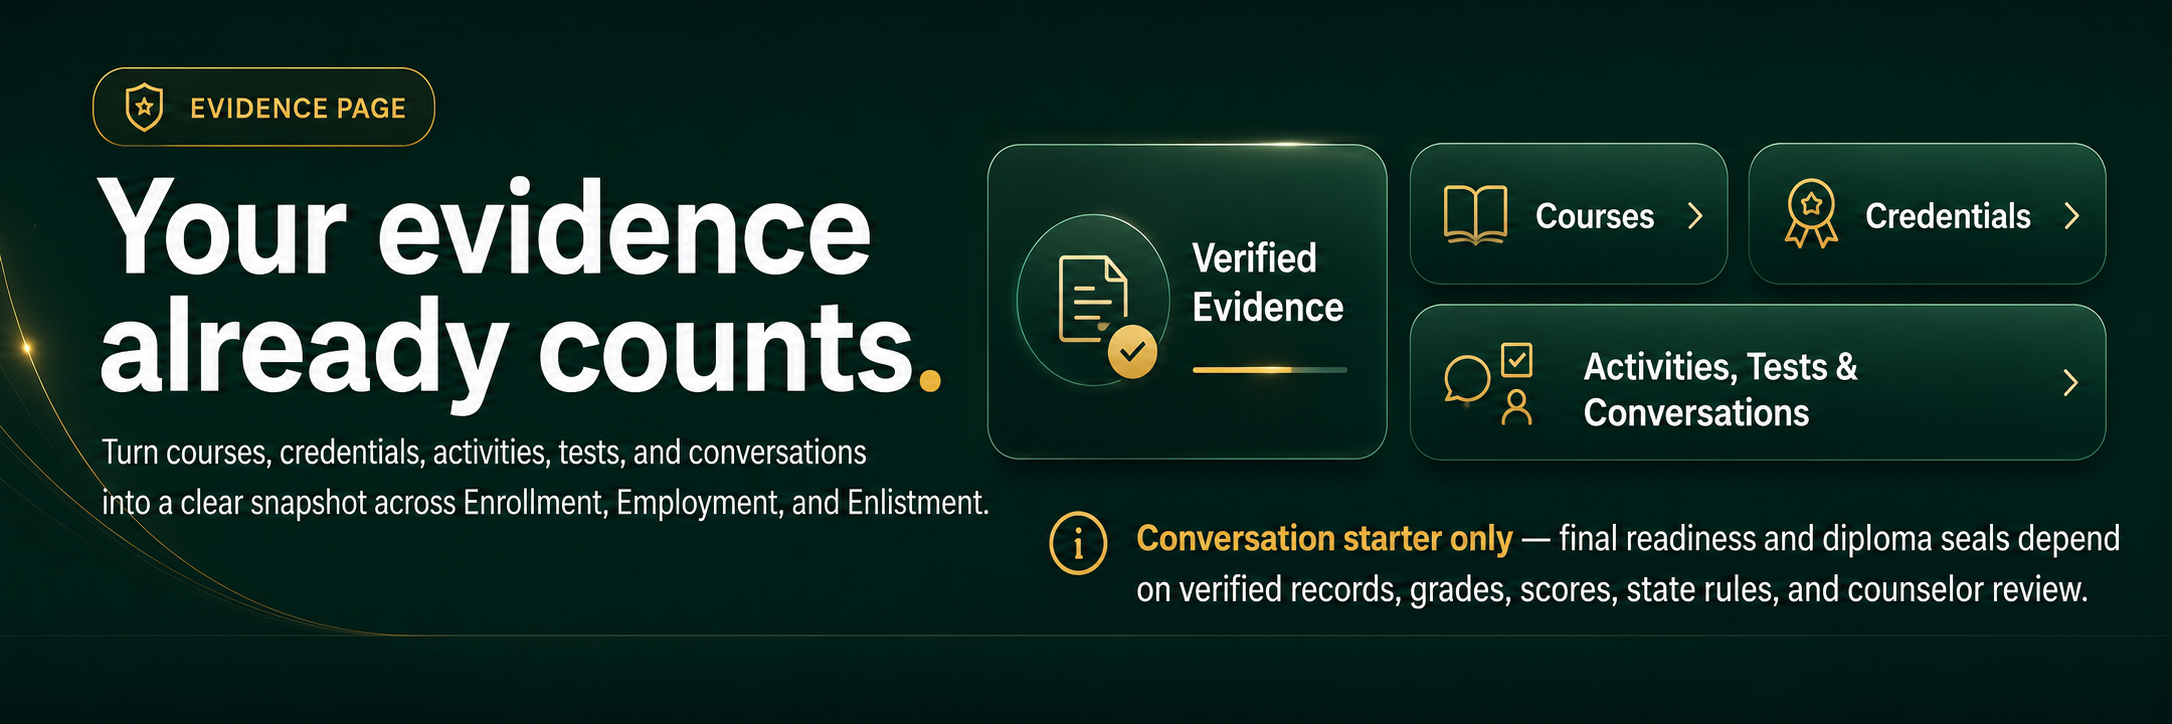
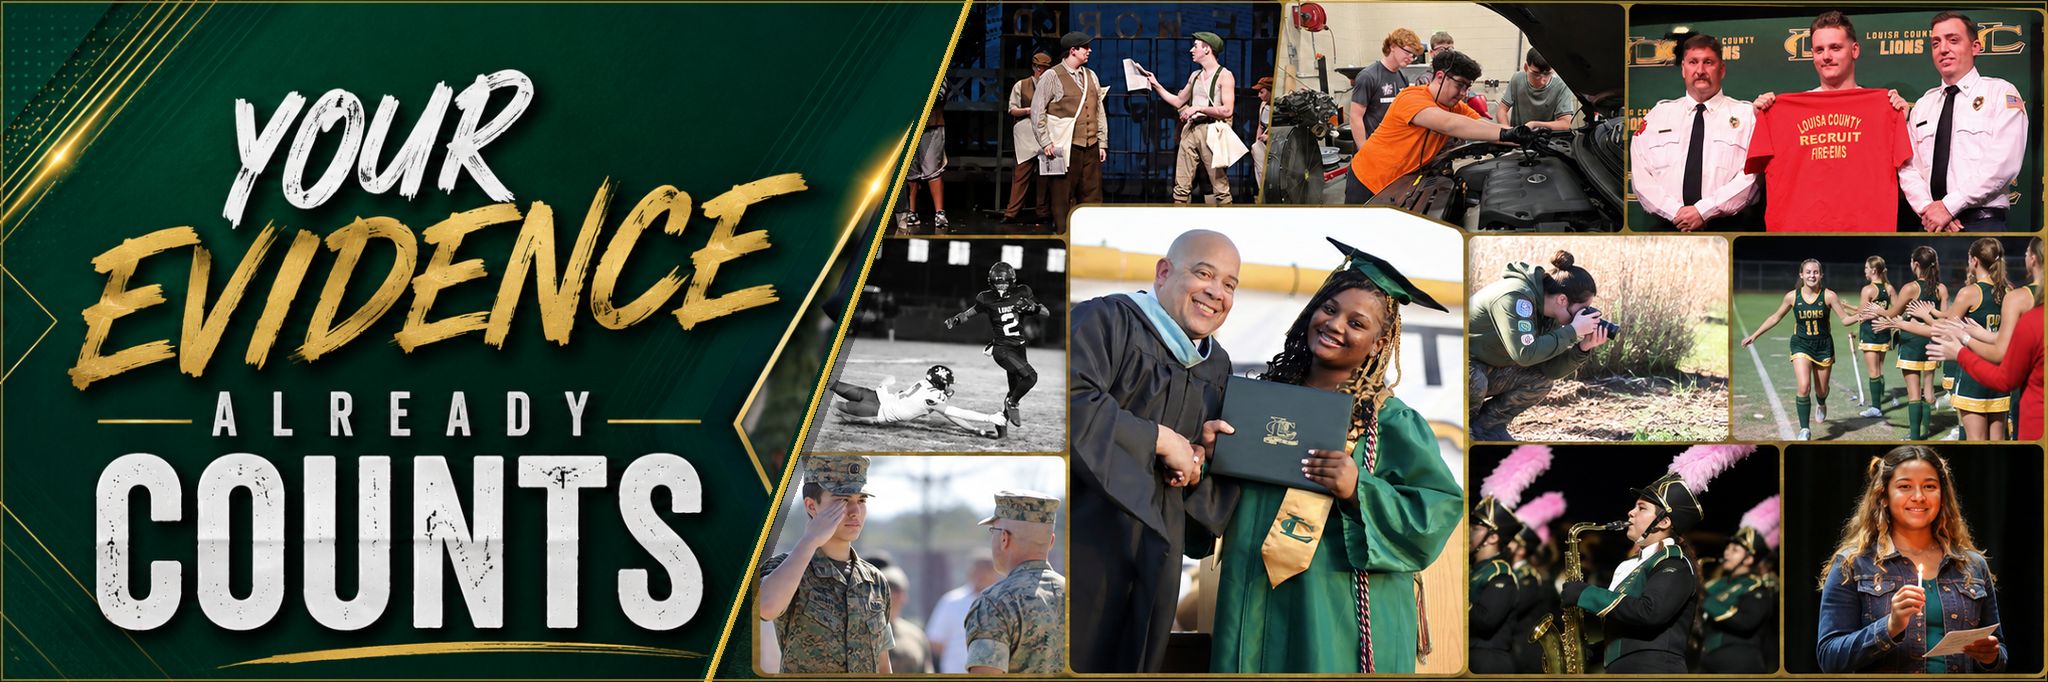
photo updates

diff --git a/index.html b/index.html
@@ -4610,9 +4610,9 @@ input,select,textarea{
           <div class="schoolai-embed-top">
             <div>
               <h3>Live 3E AI Coach</h3>
-              <p>This AI Coach is provided for student pathway planning. Do not enter student IDs, passwords, home addresses, medical details, or other sensitive information. Review next steps with a trusted adult.</p>
+              <p>This AI Coach is provided for student pathway planning. Google and other account sign-ins cannot complete inside the embedded window; use the sign-in button to open SchoolAI directly. Do not enter sensitive information, and review next steps with a trusted adult.</p>
             </div>
-            <a class="btn" href="https://student.schoolai.com/join?code=5R2H-R523" target="_blank" rel="noopener noreferrer">Open SchoolAI in a new tab</a>
+            <a class="btn primary" href="https://student.schoolai.com/join?code=5R2H-R523" target="_blank" rel="noopener noreferrer">Sign in to SchoolAI in a new tab</a>
           </div>
           <div class="schoolai-embed-wrap shared-ai-coach-slot" data-shared-ai-slot data-shared-ai-title="Live 3E AI Coach">
             <div class="shared-ai-slot-message">Shared AI Coach workspace<span>Your conversation stays active as you move between LionsPath pages.</span></div>
@@ -4743,7 +4743,7 @@ Please create:
     <!-- EVIDENCE -->
     <section id="page-evidence" class="page">
       <div class="evidence-hero-image">
-        <img src="assets/evidence-page-header.png" alt="Evidence page. Your evidence already counts. Turn courses, credentials, activities, tests, and conversations into a clear snapshot across Enrollment, Employment, and Enlistment. Conversation starter only." loading="lazy">
+        <img src="assets/evidence-page-header.png?v=4" alt="Your evidence already counts, illustrated with Louisa County students demonstrating achievement through the arts, automotive work, fire service, athletics, military service, graduation, music, and leadership." loading="lazy">
       </div>
 
       <div class="readiness-grid">
@@ -4875,9 +4875,9 @@ Please create:
           <div class="schoolai-embed-top">
             <div>
               <h3>AI Plan Review</h3>
-              <p>This AI Coach is provided for student pathway planning. Paste only the information needed for feedback, leave out sensitive information, and review next steps with a trusted adult.</p>
+              <p>This AI Coach is provided for student pathway planning. Google and other account sign-ins cannot complete inside the embedded window; use the sign-in button to open SchoolAI directly. Paste only the information needed for feedback and review next steps with a trusted adult.</p>
             </div>
-            <a class="btn" href="https://student.schoolai.com/join?code=5R2H-R523" target="_blank" rel="noopener noreferrer">Open SchoolAI in a new tab</a>
+            <a class="btn primary" href="https://student.schoolai.com/join?code=5R2H-R523" target="_blank" rel="noopener noreferrer">Sign in to SchoolAI in a new tab</a>
           </div>
           <div class="schoolai-embed-wrap shared-ai-coach-slot" data-shared-ai-slot data-shared-ai-title="AI Plan Review">
             <div class="shared-ai-slot-message">Shared AI Coach workspace<span>Paste your plan summary here without restarting the chat.</span></div>

diff --git a/assets/lionpath-app.js b/assets/lionpath-app.js
@@ -188,9 +188,9 @@ function schoolAiEmbedBlock(title='Live AI Coach') {
     <div class="schoolai-embed-top">
       <div>
         <h3>${escHtml(title)}</h3>
-        <p>This AI Coach is provided for student pathway planning. Do not enter student IDs, passwords, home addresses, medical details, or other sensitive information. Review next steps with a trusted adult.</p>
+        <p>This AI Coach is provided for student pathway planning. Google and other account sign-ins cannot complete inside the embedded window; use the sign-in button to open SchoolAI directly. Do not enter sensitive information, and review next steps with a trusted adult.</p>
       </div>
-      <a class="btn" href="${AI_COACH_SPACE_URL}" target="_blank" rel="noopener noreferrer">Open SchoolAI in a new tab</a>
+      <a class="btn primary" href="${AI_COACH_SPACE_URL}" target="_blank" rel="noopener noreferrer">Sign in to SchoolAI in a new tab</a>
     </div>
     <div class="schoolai-embed-wrap shared-ai-coach-slot" data-shared-ai-slot data-shared-ai-title="${escAttr(title)}">
       <div class="shared-ai-slot-message">Shared AI Coach workspace<span>Your conversation stays active as you move between LionsPath pages.</span></div>

diff --git a/SECURITY-DEPLOYMENT.md b/SECURITY-DEPLOYMENT.md
@@ -120,4 +120,4 @@ continue to provide operational audit records and are rotated by
 
 ## Embedding check
 
-The supplied policy prevents other websites from framing LionPath by using `X-Frame-Options: SAMEORIGIN` and CSP `frame-ancestors 'self'`. This does not block LionPath's child Google Drive, SchoolAI, or Knowt frames. SchoolAI authentication may navigate its embedded frame from `student.schoolai.com` to `rosterstream.schoolai.com`, so both exact origins are included in `frame-src` and the SchoolAI frame delegates Google's `identity-credentials-get` permission. If Google or SchoolAI still refuses authentication in an embedded context, use the direct SchoolAI new-tab link instead. If the entire LionPath site must be embedded in a district or Wix page, IT must replace `frame-ancestors 'self'` with an allowlist containing the exact trusted parent origin and remove `X-Frame-Options`, then retest clickjacking protection and all embedded services.
+The supplied policy prevents other websites from framing LionPath by using `X-Frame-Options: SAMEORIGIN` and CSP `frame-ancestors 'self'`. This does not block LionPath's child Google Drive, SchoolAI, or Knowt frames. SchoolAI authentication may navigate its embedded frame from `student.schoolai.com` to `rosterstream.schoolai.com`, so both exact origins are included in `frame-src` and the SchoolAI frame delegates Google's `identity-credentials-get` permission. SchoolAI's provider links then continue to Google, Microsoft, Clever, or Classlink in the same child frame; those account authorization pages may not be embedded. Students who need an account sign-in must use the direct SchoolAI new-tab link instead. If the entire LionPath site must be embedded in a district or Wix page, IT must replace `frame-ancestors 'self'` with an allowlist containing the exact trusted parent origin and remove `X-Frame-Options`, then retest clickjacking protection and all embedded services.
